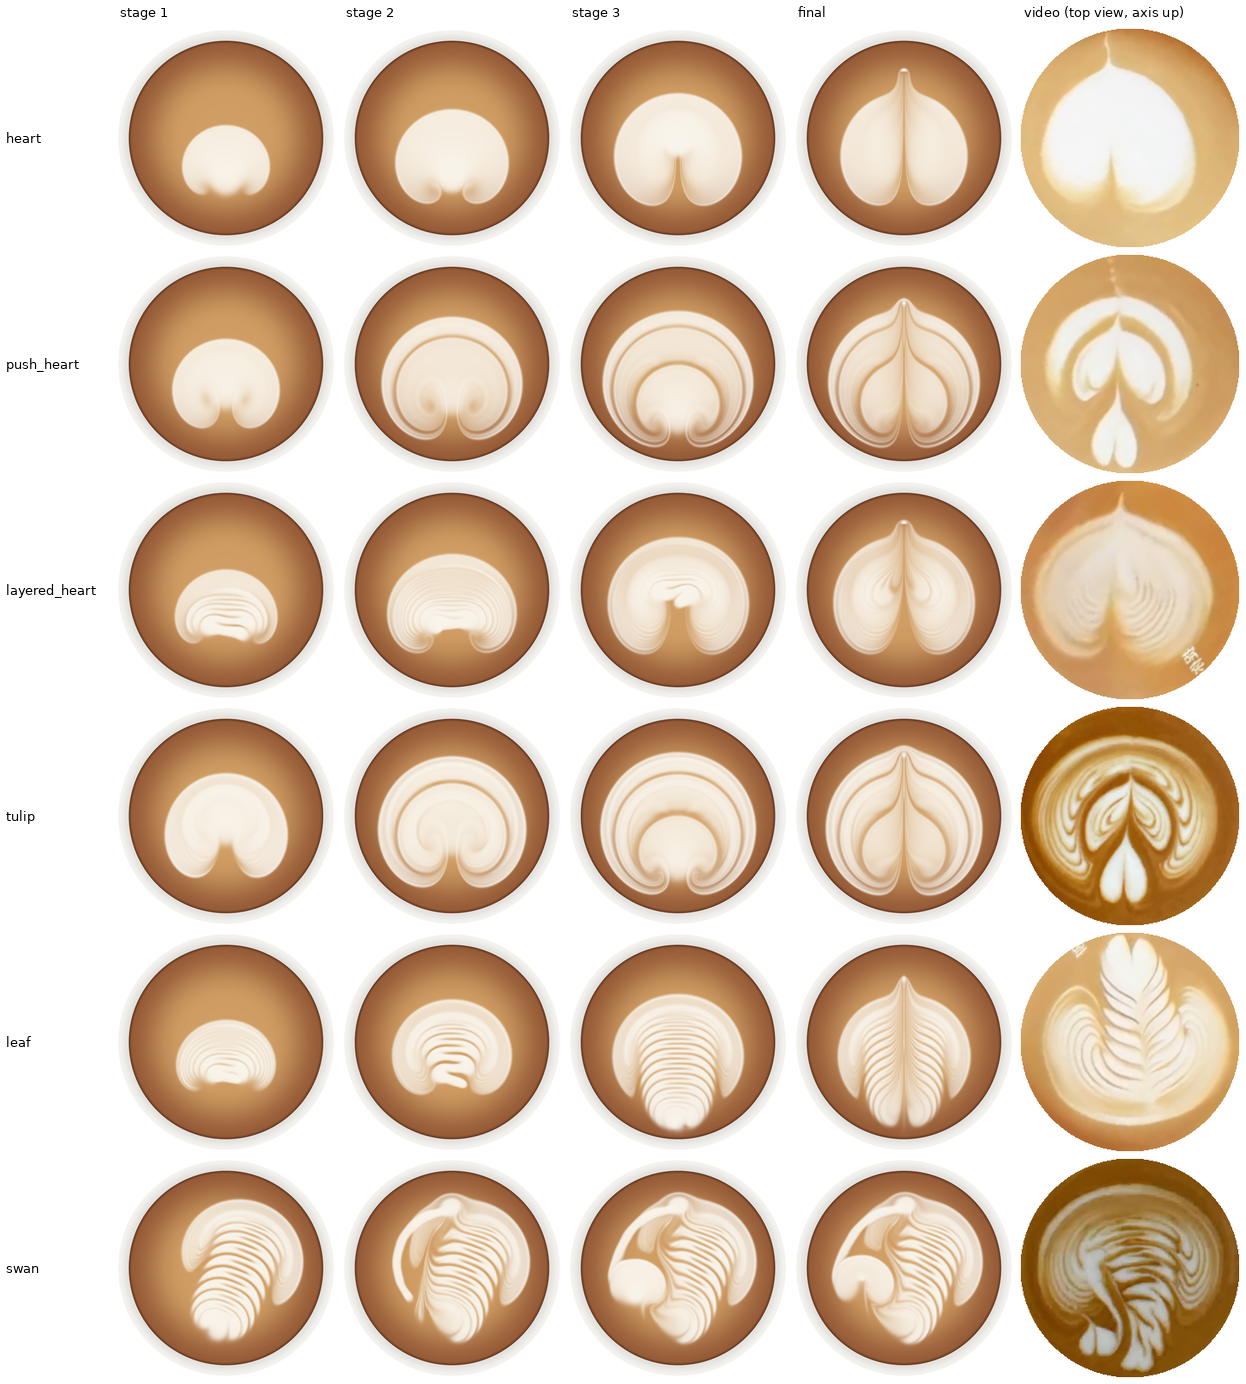
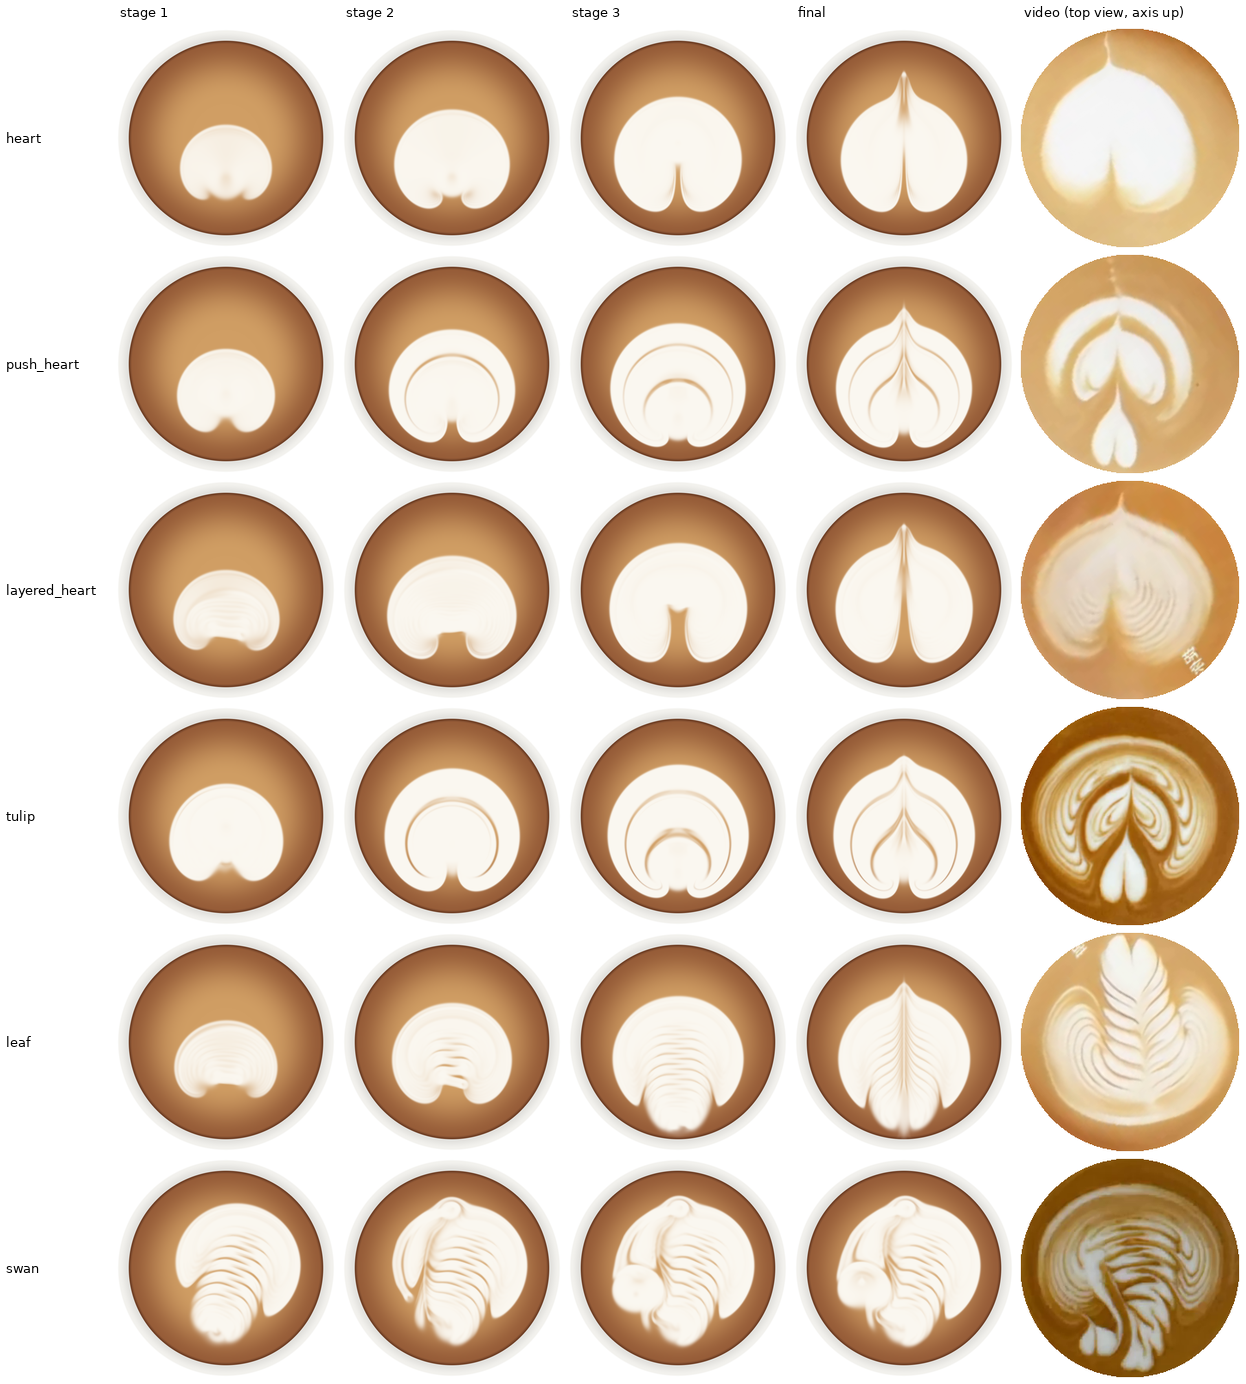
Latte: final full-resolution numbers after the tulip hover (G6.2 two bands, tulip IoU 0.51); board and summary refreshed
Claude-Session: https://claude.ai/code/session_01ENeEv4dwxPVoCWAAC8eNB3

diff --git a/latte/docs/GATES_SUMMARY.md b/latte/docs/GATES_SUMMARY.md
@@ -42,9 +42,9 @@
 | G5 | G5.2 left/right symmetry: mirror IoU of the white mask | 0.9887 | >= 0.75 | PASS |
 | G5 | G5.4 midline vein: share of transverse profiles with a dip at x=0 | 1 | >= 0.5 | PASS |
 | G5 | G5.3 rib spacing in the retreat zone before the pull-through: reference vs retreat x1.5 [mm] | [4.625, 6.625] | increases | PASS |
-| G6 | G6.1a batch A is pressed open, not erased and redrawn: surface A mass kept 5.2 -> 9.8 s; components of A material (Y_A > 0.2) | [0.9531, 1] | kept >= 80 %, 1..2 pieces | PASS |
-| G6 | G6.1b tag A ledger closure | 1.878e-15 | < 1e-9 | PASS |
-| G6 | G6.2 white bands on the axis before the pull-through (one per part A, B, C) | 1 | == 3 | **FAIL** |
+| G6 | G6.1a batch A is pressed open, not erased and redrawn: surface A mass kept 5.2 -> 10.6 s; components of A material (Y_A > 0.2) | [0.9475, 1] | kept >= 80 %, 1..2 pieces | PASS |
+| G6 | G6.1b tag A ledger closure | 2.561e-15 | < 1e-9 | PASS |
+| G6 | G6.2 white bands on the axis before the pull-through (one per part A, B, C) | 2 | == 3 | **FAIL** |
 | G7 | G7.1 wing / neck / head white areas [mm^2] | [2030, 207.4, 295.6] | each > 20 mm^2 | PASS |
 | G7 | G7.2 neck width < wing rib spacing [mm] | [4.075, 8] | neck < rib | PASS |
 | G7 | G7.3 same physics parameters as all other patterns (digest) | 1a6b8d7baeea | == shared | PASS |
@@ -61,6 +61,6 @@
 | G9 | G9-heart heart: white IoU vs the rectified video frame, pour axes aligned (axis tolerance -6 deg); IoU with the simulation upside down; white fraction sim / video | [0.6552, 0.5906, 0.4387, 0.4129] | report | PASS |
 | G9 | G9-push_heart push_heart: white IoU vs the rectified video frame, pour axes aligned (axis tolerance -6 deg); IoU with the simulation upside down; white fraction sim / video | [0.398, 0.4014, 0.5109, 0.2985] | report | PASS |
 | G9 | G9-layered_heart layered_heart: white IoU vs the rectified video frame, pour axes aligned (axis tolerance -6 deg); IoU with the simulation upside down; white fraction sim / video | [0.657, 0.6292, 0.4819, 0.4999] | report | PASS |
-| G9 | G9-tulip tulip: white IoU vs the rectified video frame, pour axes aligned (axis tolerance +4 deg); IoU with the simulation upside down; white fraction sim / video | [0.5193, 0.4929, 0.5663, 0.3748] | report | PASS |
+| G9 | G9-tulip tulip: white IoU vs the rectified video frame, pour axes aligned (axis tolerance -2 deg); IoU with the simulation upside down; white fraction sim / video | [0.5119, 0.4691, 0.5568, 0.3748] | report | PASS |
 | G9 | G9-leaf leaf: white IoU vs the rectified video frame, pour axes aligned (axis tolerance +6 deg); IoU with the simulation upside down; white fraction sim / video | [0.6733, 0.6313, 0.5207, 0.5875] | report | PASS |
 | G9 | G9-swan swan: white IoU vs the rectified video frame, pour axes aligned (axis tolerance -4 deg); IoU with the simulation upside down; white fraction sim / video | [0.5263, 0.53, 0.5577, 0.3767] | report | PASS |

diff --git a/latte/docs/REPORT.md b/latte/docs/REPORT.md
@@ -45,7 +45,7 @@
 | G3 高/低位 | **5/6** | 低/高位留表比 444×；高位添白仅 0.2%；E 与 Φ 账本闭合 3.8e-14；C_t/C_E 通量分解符号正确。**未过：G3.2a**（质心位移 0.05 mm；线状相互作用下该度量失去分辨力，§4.2） |
 | G4 推推乐 | **5/5** | B 把 A 前缘推前 8.25 mm（对照 0.5 mm）；A 包角 360°；B 形心到 A 前缘的轴线棕带 α 0.51、宽 1 mm；标签账本 2e-15 |
 | G5 树叶 | **4/4** | 6 条肋；镜像 IoU 0.99；叶脉判据 1.0（修复，此前 0）；后退 ×1.5（摆频不变）肋距 4.6 → 6.6 mm |
-| G6 郁金香 | **2/3** | A 被压开而非重画：A 物质保留 95%（修复，此前 66%）、1 个连通块；账本 2e-15。**未过：G6.2** 轴线白带 1 条（应 3 条，§4.3） |
+| G6 郁金香 | **2/3** | A 被压开而非重画：A 物质保留 95%（修复，此前 66%）、1 个连通块；账本 2e-15。**未过：G6.2** 轴线白带 2 条（应 3 条，§4.3） |
 | G7 天鹅 | **3/3** | 翼 2030 / 颈 207 / 头 296 mm²；颈宽 4.1 mm < 翼肋距 8.0 mm；参数 digest 与其它图案相同 |
 | G8 泛化 | **6/6** | ±10% 扰动（心 ×2、叶 ×2）类别不变，IoU 0.89–0.95（此前 0.67–0.97）；Δt 减半 IoU 0.999；峰值内存 436 MB |
 | 反事实 | **4/4** | 只改颜色逐位不变；无体积/动量输入速度为 0；高度标签 ×3 不变；R=0 时远区白区缩 25% |
@@ -109,7 +109,7 @@ C 对 B 的前后界面，C 只是把 B 的尾部从内部撑大。视频里 C|B
 新 crema 在层间被折叠：折叠需要垂直自由度，层叠的前压偏置需要体相环流（§4.4），都超出单层模型。
 
 采纳的缓解（动作层面，视频里真实存在的动作）：两笔之间落笔前 0.5 s 的高位细流悬停（"定点"），其高 v_j 搅动
-在旧层边界蚀出暗线，A|B 锋从 0.59 加深到 0.41，轴线白带 1 → 2 条。G6.2 保持 FAIL，如实记录。
+在旧层边界蚀出暗线，A|B 锋从 0.59 加深到 0.41，轴线白带 1 → 2 条（全分辨率复核一致）。G6.2 保持 FAIL，如实记录。
 
 ### 4.4 单层模型的边界（记录，不硬修）
 
@@ -156,7 +156,7 @@ C 对 B 的前后界面，C 只是把 B 的尾部从内部撑大。视频里 C|B
 | 大白心 | 0.66 | 0.59 | 0.44 / 0.41 |
 | 推推乐 | 0.40 | 0.40 | 0.51 / 0.30 |
 | 千层心 | 0.66 | 0.63 | 0.48 / 0.50 |
-| 郁金香 | 0.52 | 0.49 | 0.57 / 0.37 |
+| 郁金香 | 0.51 | 0.47 | 0.56 / 0.37 |
 | 树叶 | 0.67 | 0.63 | 0.52 / 0.59 |
 | 天鹅 | 0.53 | 0.53 | 0.56 / 0.38 |
 

diff --git a/latte/README.md b/latte/README.md
@@ -64,5 +64,5 @@ LATTE_FULL=1 python3 -m pytest -q tests
 python3 bench/benchmark.py
 ```
 
-性能（阶段一，单 CPU 核，numba 后端，128² + 384²）：单图案 19–35 s 墙钟 / 物理秒。门禁：56 项判据通过 53 项（未过：G1.3 冲击点棕洞、G3.2a 高位拖拽质心、G6.2 郁金香第三条轴线白带，逐条机制分析见报告 §4，不回调阈值）。与参考视频的白区 IoU（矫正为俯视、倒奶轴对齐后）：心 0.66、推推乐 0.40、千层心 0.66、郁金香 0.52、树叶 0.67、天鹅 0.53。
+性能（阶段一，单 CPU 核，numba 后端，128² + 384²）：单图案 19–35 s 墙钟 / 物理秒。门禁：56 项判据通过 53 项（未过：G1.3 冲击点棕洞、G3.2a 高位拖拽质心、G6.2 郁金香第三条轴线白带，逐条机制分析见报告 §4，不回调阈值）。与参考视频的白区 IoU（矫正为俯视、倒奶轴对齐后）：心 0.66、推推乐 0.40、千层心 0.66、郁金香 0.51、树叶 0.67、天鹅 0.53。
 阶段二的 GPU（Warp）后端尚未实现，见 `core/solver_warp.py`。
